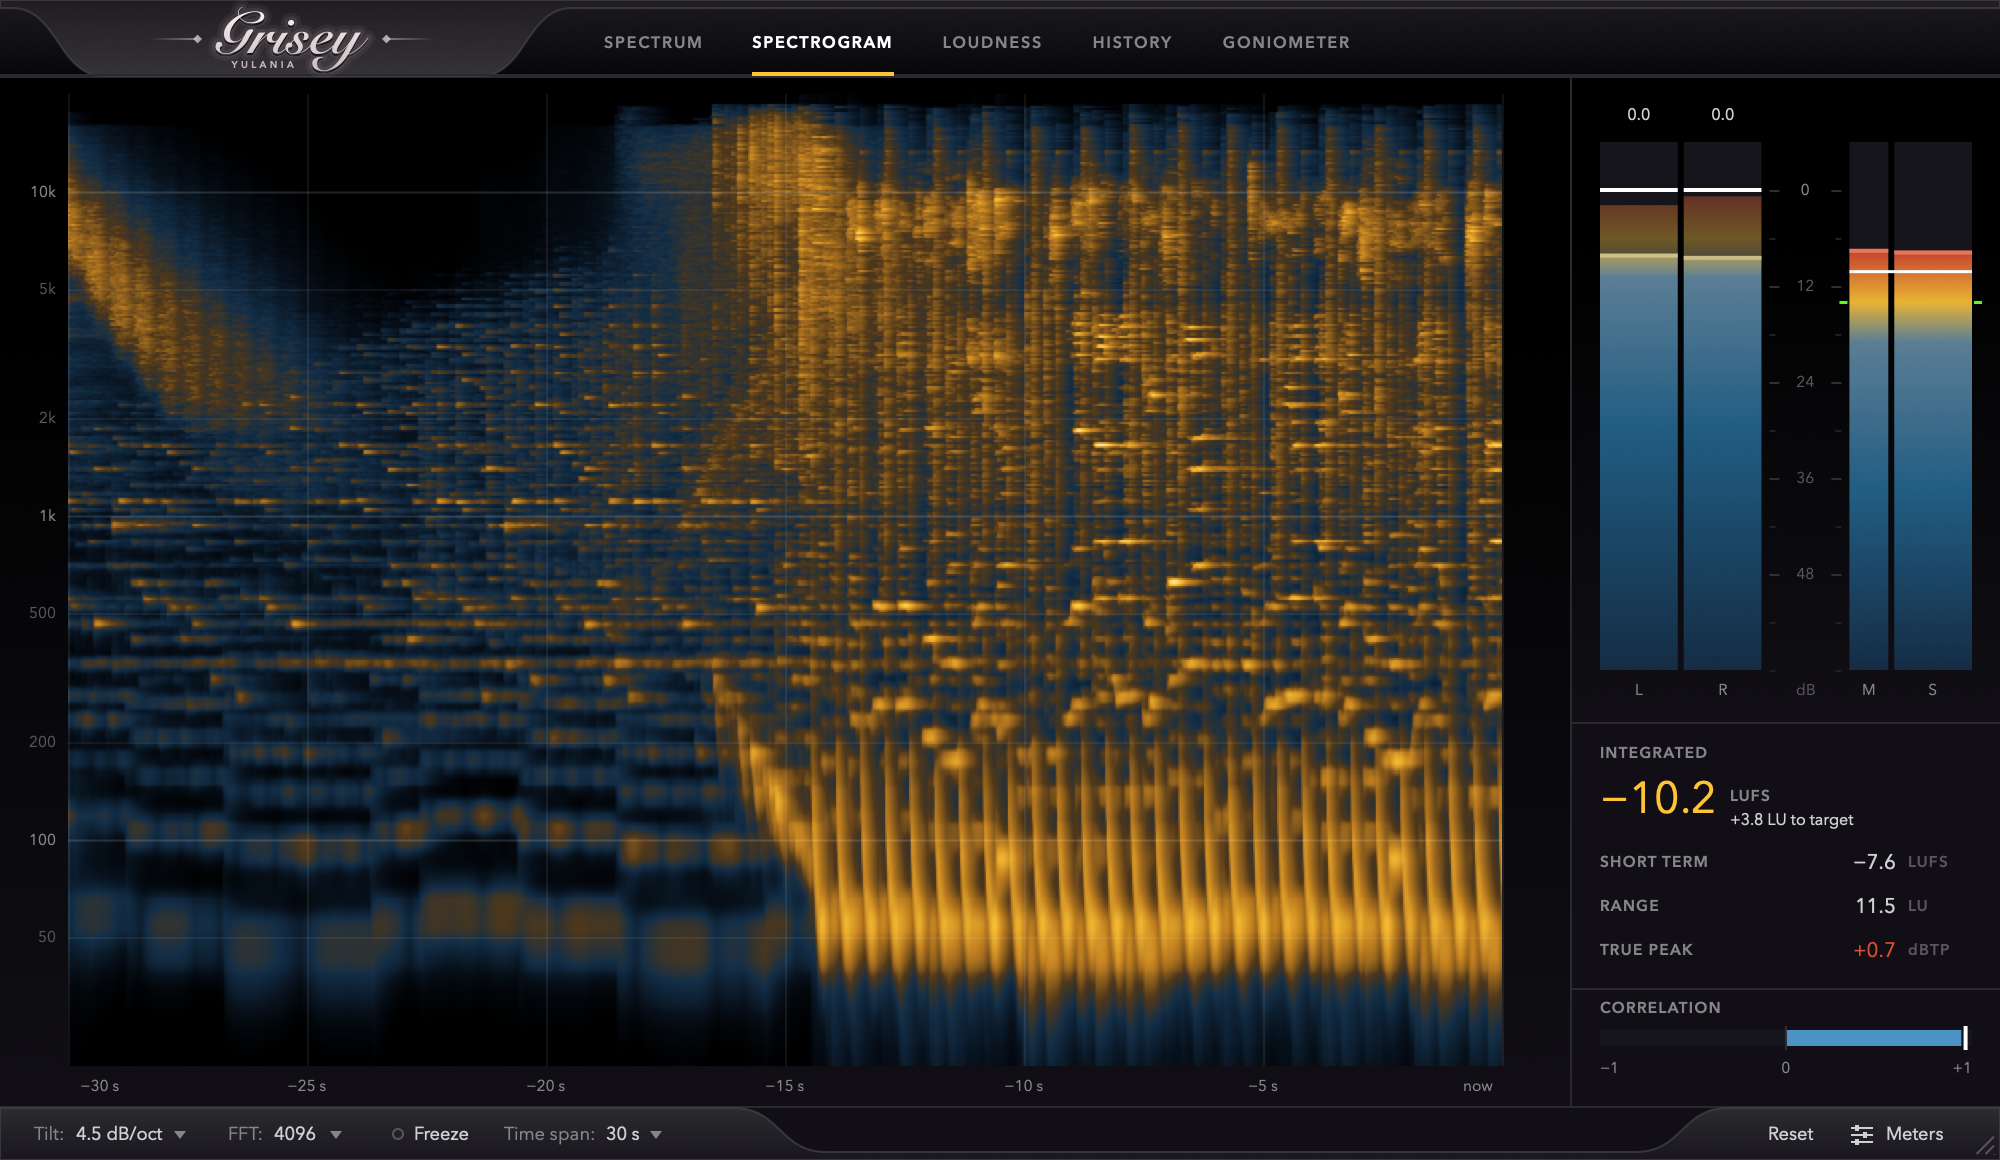
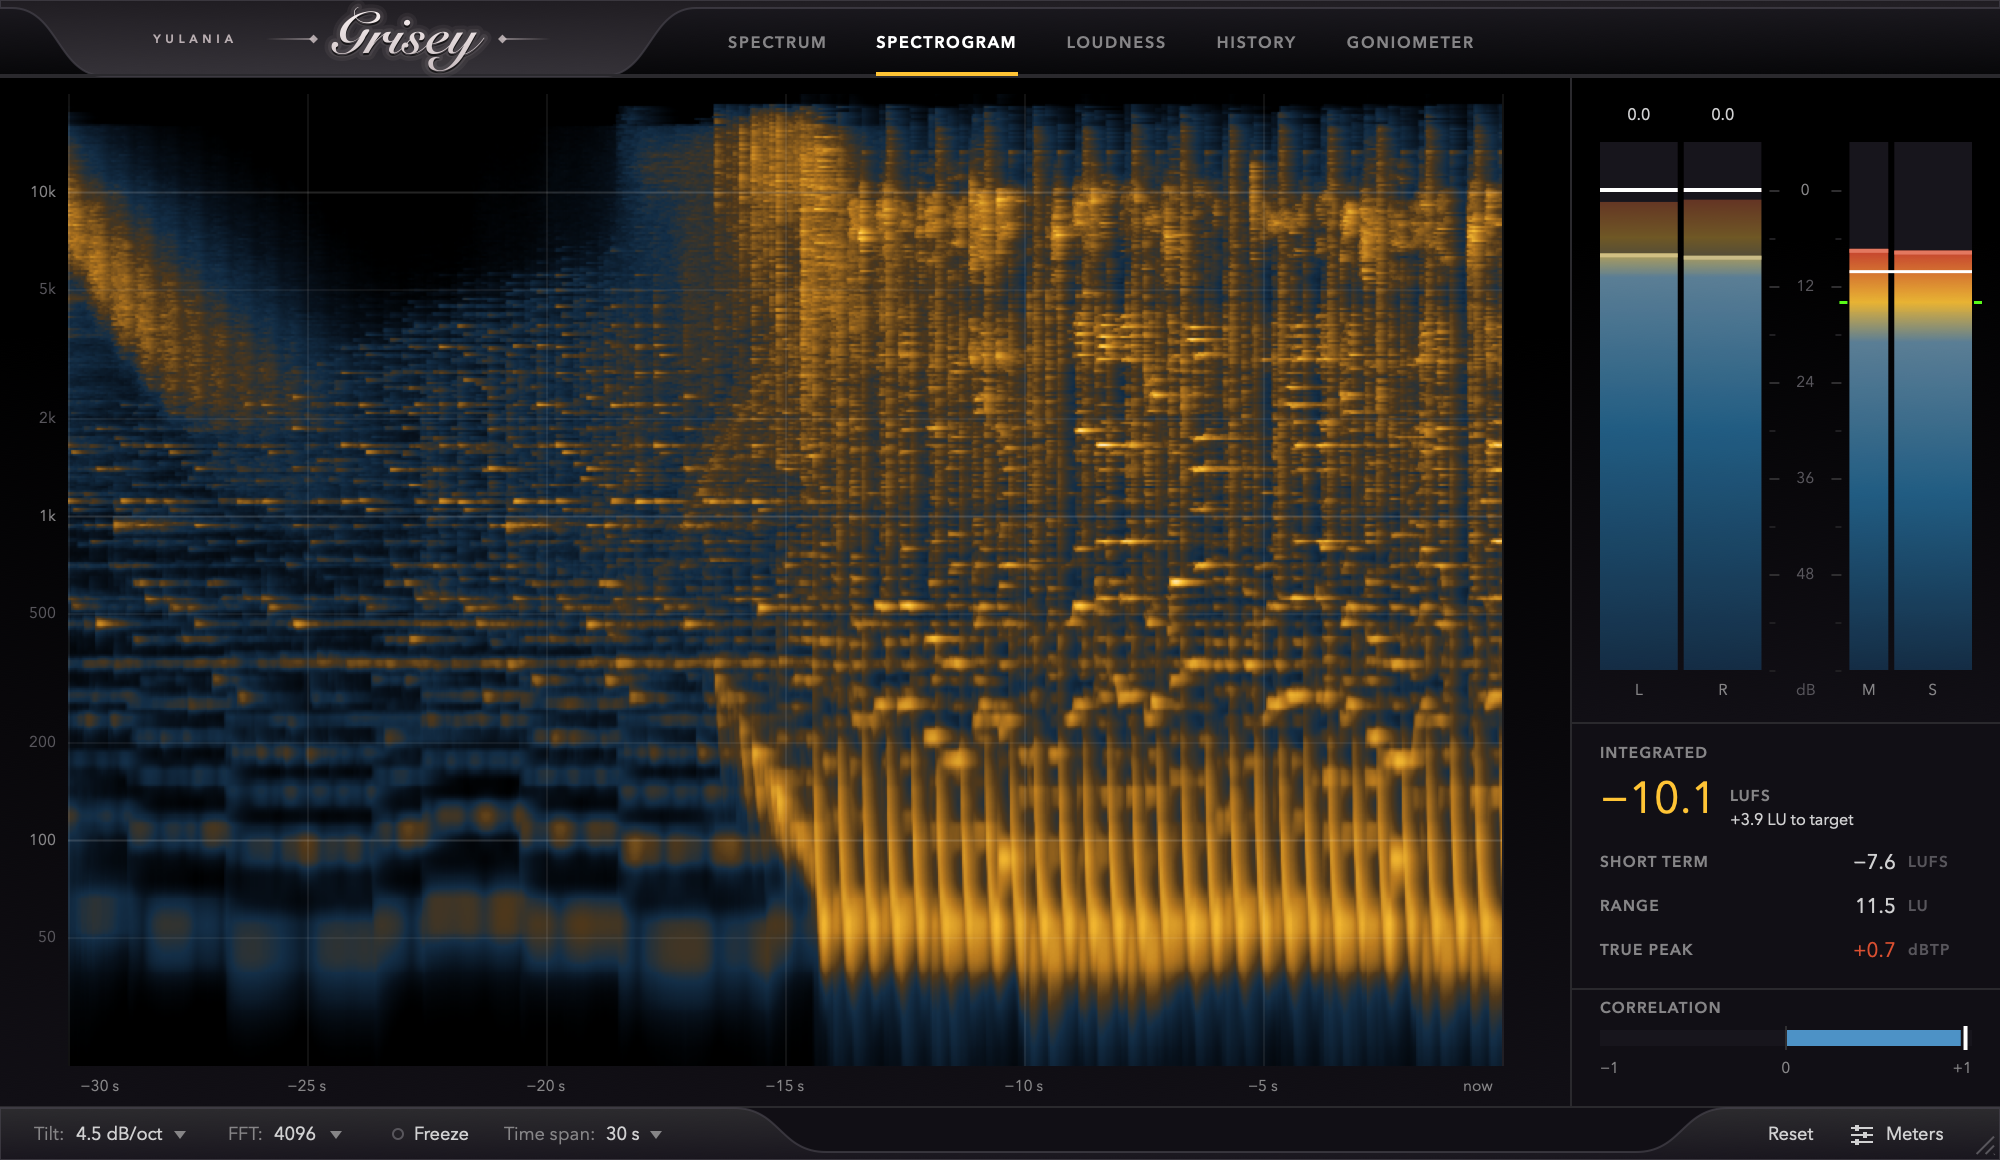
Put the maker's name to the left of the product's, on the same line
The maker's name was in the room that the tail of the y leaves beneath the
name, which only this name has: another plugin of the maker's would have had it
somewhere else, or nowhere. It now stands to the left of the flourish on the
left, on the line of the flourishes, which fade outward and so lead from it to
the name. Its place does not depend on the letters of the product's name, so
every plugin of the maker's can have it in the same place. The flourishes on
either side of the name stay.

The tool no longer looks for the room beneath the name. The SVG of the README
has the same line as the header.

diff --git a/Tests/Snapshot.cpp b/Tests/Snapshot.cpp
@@ -134,7 +134,7 @@ namespace
         // The finish, in points at the height that the name has in the header
         const juce::String maker("YULANIA");
         const float heightInHeader = 32.f, ruleGap = 9.f, ruleLength = 24.f, diamondSize = 2.2f;
-        const float makerFontHeight = 6.6f, makerKerning = 0.26f;
+        const float makerFontHeight = 8.f, makerKerning = 0.3f, makerGap = 11.f;
 
         // Large, so that two decimal places are plenty
         const juce::Font font(juce::FontOptions(typeface, 200.f, juce::Font::plain).withStyle(style));
@@ -146,27 +146,6 @@ namespace
         outline.applyTransform(juce::AffineTransform::translation(-outline.getBounds().getX(), -outline.getBounds().getY()));
 
         const float width = outline.getBounds().getWidth(), height = outline.getBounds().getHeight();
-
-        // The maker's name goes in the room beneath the line that the letters stand on. That line is the lowest
-        // point of the first half of the name, and the room ends where a tail, like that of the y, comes below it.
-        float baseline = 0.f, tailLeft = width;
-        {
-            juce::PathFlatteningIterator point(outline);
-            std::vector<juce::Point<float>> points;
-            while (point.next())
-                points.push_back({ point.x2, point.y2 });
-
-            for (const auto& p : points)
-                if (p.x < 0.5f * width)
-                    baseline = juce::jmax(baseline, p.y);
-
-            for (const auto& p : points)
-                if (p.y > baseline + 0.05f * height)
-                    tailLeft = juce::jmin(tailLeft, p.x);
-        }
-
-        const float pocketLeft = 0.03f, pocketTop = baseline / height + 0.06f;
-        const float pocketWidth = tailLeft / width - 0.05f, pocketHeight = 1.02f - pocketTop;
 
         auto number = [](float value) { return juce::String(value, 2).trimCharactersAtEnd("0").trimCharactersAtEnd("."); };
         const auto data = toSvgData(outline);
@@ -194,15 +173,13 @@ namespace
                << "    inline constexpr float ruleGap = " << literal(ruleGap) << ";\n"
                << "    inline constexpr float ruleLength = " << literal(ruleLength) << ";\n"
                << "    inline constexpr float diamondSize = " << literal(diamondSize) << ";\n\n"
-               << "    // The maker's name, and the room for it beneath the line that the letters stand on, clear of the tail of\n"
-               << "    // the last letter, as proportions of the outline's width and height\n"
+               << "    // The maker's name stands to the left of the flourish on the left, on the same line, and this far from\n"
+               << "    // it. Its place does not depend on the letters of the product's name, so that every plugin of the maker's\n"
+               << "    // can have it in the same place.\n"
                << "    inline constexpr const char* maker = \"" << maker << "\";\n"
                << "    inline constexpr float makerFontHeight = " << literal(makerFontHeight) << ";\n"
                << "    inline constexpr float makerKerning = " << literal(makerKerning) << ";\n"
-               << "    inline constexpr float pocketLeft = " << literal(pocketLeft) << ";\n"
-               << "    inline constexpr float pocketTop = " << literal(pocketTop) << ";\n"
-               << "    inline constexpr float pocketWidth = " << literal(pocketWidth) << ";\n"
-               << "    inline constexpr float pocketHeight = " << literal(pocketHeight) << ";\n\n"
+               << "    inline constexpr float makerGap = " << literal(makerGap) << ";\n\n"
                << "    inline constexpr const char* outline =\n";
 
         for (int start = 0; start < data.length(); start += 110)
@@ -214,19 +191,22 @@ namespace
         //==============================================================================
         // The SVG is in the units of the outline, so a point of the header is this many of them
         const float unit = height / heightInHeader;
-        const float marginX = (ruleGap + ruleLength) * unit + 60.f, marginY = 60.f;
-        const float plateWidth = width + 2.f * marginX, plateHeight = height + 2.f * marginY;
-        const float ruleY = marginY + 0.5f * height;
 
-        // The maker's name as an outline too, in the middle of its room
+        // The maker's name as an outline too
         juce::GlyphArrangement makerGlyphs;
         makerGlyphs.addLineOfText(Theme::font(makerFontHeight * unit, true).withExtraKerningFactor(makerKerning), maker, 0.f, 0.f);
         juce::Path makerOutline;
         makerGlyphs.createPath(makerOutline);
-
-        const juce::Rectangle<float> pocket(marginX + pocketLeft * width, marginY + pocketTop * height, pocketWidth * width, pocketHeight * height);
         const auto makerBounds = makerOutline.getBounds();
-        makerOutline.applyTransform(juce::AffineTransform::translation(pocket.getCentreX() - makerBounds.getCentreX(), pocket.getCentreY() - makerBounds.getCentreY()));
+
+        // The plate holds the same line as the header: the maker, a flourish, the name, a flourish, with the same
+        // space at either end, so the name is not in the middle of it
+        const float edge = 70.f, marginY = 60.f;
+        const float marginX = edge + makerBounds.getWidth() + (makerGap + ruleLength + ruleGap) * unit;
+        const float plateWidth = marginX + width + (ruleGap + ruleLength) * unit + edge, plateHeight = height + 2.f * marginY;
+        const float ruleY = marginY + 0.5f * height;
+
+        makerOutline.applyTransform(juce::AffineTransform::translation(edge - makerBounds.getX(), ruleY - makerBounds.getCentreY()));
 
         const auto place = "translate(" + number(marginX) + " " + number(marginY) + ")";
 
@@ -269,8 +249,7 @@ namespace
 
         svgFile.replaceWithText(svg, false, false, "\n");
 
-        std::cout << "Saved " << svgFile.getFullPathName() << " and " << headerFile.getFullPathName() << std::endl
-                  << "The letters stand at " << number(baseline / height) << " of the height, and a tail comes below them from " << number(tailLeft / width) << " of the width" << std::endl;
+        std::cout << "Saved " << svgFile.getFullPathName() << " and " << headerFile.getFullPathName() << std::endl;
         return true;
     }
 }

diff --git a/Source/PluginEditor.cpp b/Source/PluginEditor.cpp
@@ -137,7 +137,7 @@ namespace
 {
     // The widths of the raised tab that holds the name, and of the shoulders on either side of it
     constexpr float nameTabStart = 6.f;
-    constexpr float nameTabWidth = 188.f;
+    constexpr float nameTabWidth = 250.f;
     constexpr float shoulderWidth = 46.f;
 
     // The thickness of the raised edge that runs along the rest of the chrome
@@ -192,10 +192,20 @@ void GriseyAudioProcessorEditor::paintName(juce::Graphics& g, juce::Rectangle<fl
 {
     // The name of the plugin is an outline, not text, so that it is drawn the same on a computer that does
     // not have its typeface. It is finished as a name is on the fallboard of a piano: in silver, a little
-    // lighter at the top than at the bottom, set into the surface, with a flourish on either side of it and
-    // the maker's name beneath it.
+    // lighter at the top than at the bottom, set into the surface, with a flourish on either side of it.
+    // The maker's name is to the left of all that, on the same line. Its place does not depend on the letters
+    // of the product's name, so every plugin of the maker's can have it in the same place.
+    const auto makerFont = Theme::font(Wordmark::makerFontHeight, true).withExtraKerningFactor(Wordmark::makerKerning);
+    const float makerWidth = (float)Theme::textWidth(makerFont, Wordmark::maker);
     const float wordWidth = Wordmark::width * Wordmark::heightInHeader / Wordmark::height;
-    const auto word = tab.withSizeKeepingCentre(wordWidth, Wordmark::heightInHeader).translated(0.f, 0.5f);
+    const float flourish = Wordmark::ruleGap + Wordmark::ruleLength;
+
+    // The whole line is centred in the tab: the maker, a flourish, the name, a flourish
+    const float lineWidth = makerWidth + Wordmark::makerGap + flourish + wordWidth + flourish;
+    const float lineLeft = tab.getCentreX() - 0.5f * lineWidth;
+
+    const auto word = juce::Rectangle<float>(lineLeft + makerWidth + Wordmark::makerGap + flourish, 0.f, wordWidth, Wordmark::heightInHeader)
+                          .withCentre({ lineLeft + makerWidth + Wordmark::makerGap + flourish + 0.5f * wordWidth, tab.getCentreY() + 0.5f });
     const auto placement = juce::RectanglePlacement(juce::RectanglePlacement::stretchToFit)
                                .getTransformToFit({ 0.f, 0.f, Wordmark::width, Wordmark::height }, word);
 
@@ -229,13 +239,9 @@ void GriseyAudioProcessorEditor::paintName(juce::Graphics& g, juce::Rectangle<fl
     g.setGradientFill(juce::ColourGradient(Theme::wordmarkTop, 0.f, word.getY(), Theme::wordmarkBottom, 0.f, word.getBottom(), false));
     g.fillPath(wordmarkOutline, placement);
 
-    // The maker's name is in the room beneath the line that the letters stand on, which the tail of the y
-    // leaves free on the left
-    const auto pocket = juce::Rectangle<float>(word.getX() + Wordmark::pocketLeft * wordWidth, word.getY() + Wordmark::pocketTop * Wordmark::heightInHeader,
-                                               Wordmark::pocketWidth * wordWidth, Wordmark::pocketHeight * Wordmark::heightInHeader);
-    g.setFont(Theme::font(Wordmark::makerFontHeight, true).withExtraKerningFactor(Wordmark::makerKerning));
-    g.setColour(Theme::wordmarkBottom.withAlpha(0.95f));
-    g.drawText(Wordmark::maker, pocket.expanded(6.f, 2.f), juce::Justification::centred);
+    g.setFont(makerFont);
+    g.setColour(Theme::wordmarkBottom.withAlpha(0.9f));
+    g.drawText(Wordmark::maker, juce::Rectangle<float>(lineLeft - 2.f, ruleY - 8.f, makerWidth + 6.f, 16.f), juce::Justification::centredLeft);
 }
 
 void GriseyAudioProcessorEditor::paintBottomBar(juce::Graphics& g, juce::Rectangle<int> area)

diff --git a/Source/UI/Wordmark.h b/Source/UI/Wordmark.h
@@ -15,15 +15,13 @@ namespace Wordmark
     inline constexpr float ruleLength = 24.0f;
     inline constexpr float diamondSize = 2.2f;
 
-    // The maker's name, and the room for it beneath the line that the letters stand on, clear of the tail of
-    // the last letter, as proportions of the outline's width and height
+    // The maker's name stands to the left of the flourish on the left, on the same line, and this far from
+    // it. Its place does not depend on the letters of the product's name, so that every plugin of the maker's
+    // can have it in the same place.
     inline constexpr const char* maker = "YULANIA";
-    inline constexpr float makerFontHeight = 6.6f;
-    inline constexpr float makerKerning = 0.26f;
-    inline constexpr float pocketLeft = 0.03f;
-    inline constexpr float pocketTop = 0.79f;
-    inline constexpr float pocketWidth = 0.58f;
-    inline constexpr float pocketHeight = 0.23f;
+    inline constexpr float makerFontHeight = 8.0f;
+    inline constexpr float makerKerning = 0.3f;
+    inline constexpr float makerGap = 11.0f;
 
     inline constexpr const char* outline =
         "M73.59 1.27Q69.15 2.38 66.3 6.34Q63.44 10.31 63.44 14.91Q63.44 16.97 63.68 19.11Q63.92 21.25 64.71 23Q68.99 20"

diff --git a/README.md b/README.md
@@ -136,7 +136,7 @@ Grisey is free software under the GPLv3 (see [LICENSE.md](LICENSE.md)). It is bu
 
 The name in the header is set in Snell Roundhand, and drawn as an outline (`Source/UI/Wordmark.h`,
 `docs/images/wordmark.svg`), so that it looks the same on a computer that does not have the typeface.
-Yulania, beneath it, is the maker's name.
+Yulania, to its left, is the maker's name.
 
 The look of the interface is inspired by FabFilter's plugins. Grisey is an independent project:
 it is not made, endorsed, or supported by FabFilter, and it uses none of their artwork or code.
